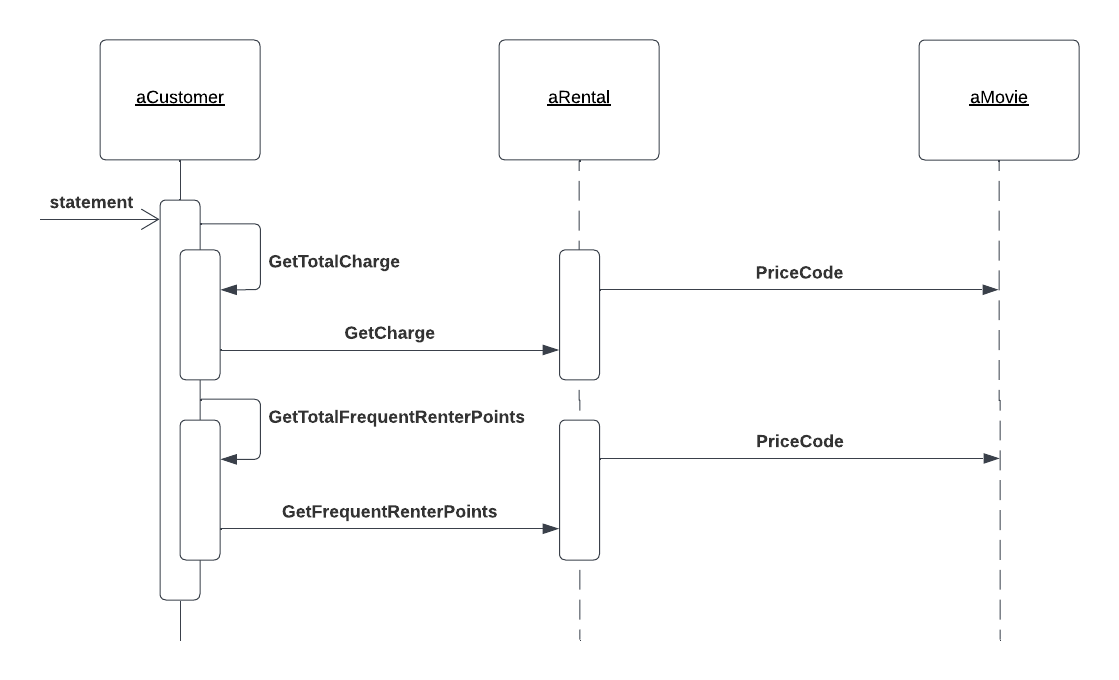
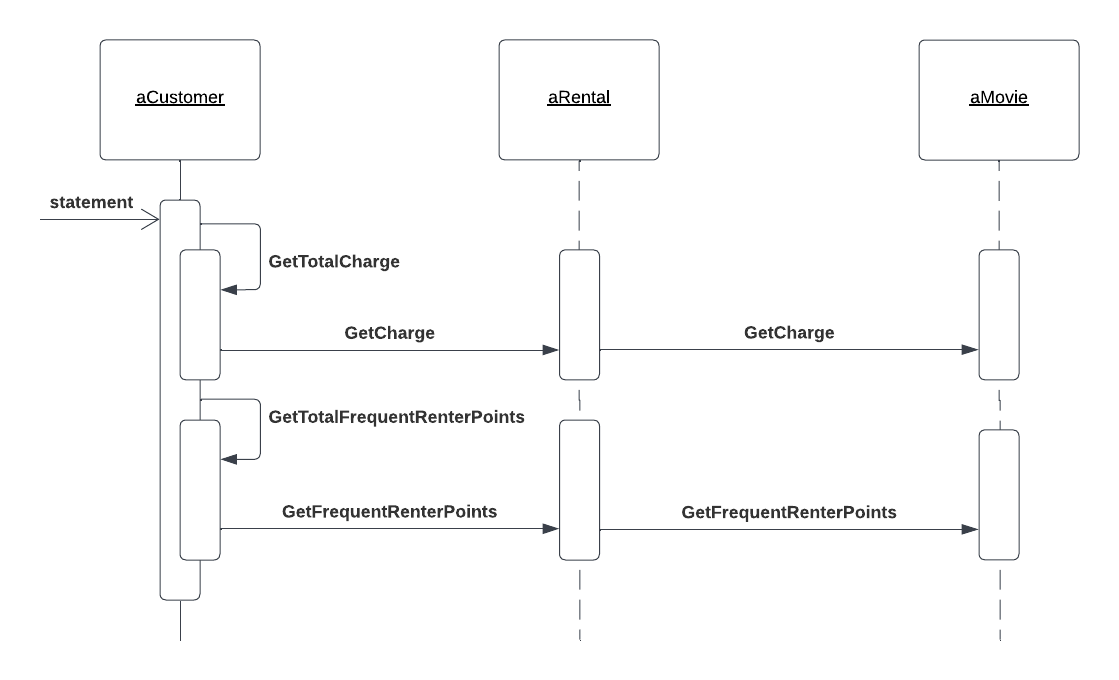
Move method

diff --git a/MoviesRental/Movie.cs b/MoviesRental/Movie.cs
@@ -1,18 +1,48 @@
-namespace MoviesRental
+namespace MoviesRental;
+
+public class Movie
 {
-    public class Movie
+    public const int Regular = 0;
+    public const int NewRelease = 1;
+    public const int Childrens = 2;
+
+    public string Title { get; }
+    public int PriceCode { get; set; }
+
+    public Movie(string title, int priceCode)
     {
-        public const int Regular = 0;
-        public const int NewRelease = 1;
-        public const int Childrens = 2;
+        Title = title;
+        PriceCode = priceCode;
+    }
 
-        public string Title { get; }
-        public int PriceCode { get; set; }
+    public double GetCharge(int daysRented)
+    {
+        double result = 0;
 
-        public Movie(string title, int priceCode)
+        switch (PriceCode)
         {
-            Title = title;
-            PriceCode = priceCode;
+            case Regular:
+                result += 2;
+                if (daysRented > 2)
+                    result += (daysRented - 2) * 1.5;
+                break;
+            case NewRelease:
+                result += daysRented * 3;
+                break;
+            case Childrens:
+                result += 1.5;
+                if (daysRented > 3)
+                    result += (daysRented - 3) * 1.5;
+                break;
         }
+
+        return result;
+    }
+    public int GetFrequentRenterPoints(int daysRented)
+    {
+        if (PriceCode == NewRelease && daysRented > 1)
+            return 2;
+
+        return 1;
     }
 }

diff --git a/MoviesRental/Rental.cs b/MoviesRental/Rental.cs
@@ -13,32 +13,10 @@ public class Rental
 
     public double GetCharge()
     {
-        double result = 0;
-
-        switch (Movie.PriceCode)
-        {
-            case Movie.Regular:
-                result += 2;
-                if (DaysRented > 2)
-                    result += (DaysRented - 2) * 1.5;
-                break;
-            case Movie.NewRelease:
-                result += DaysRented * 3;
-                break;
-            case Movie.Childrens:
-                result += 1.5;
-                if (DaysRented > 3)
-                    result += (DaysRented - 3) * 1.5;
-                break;
-        }
-
-        return result;
+        return Movie.GetCharge(DaysRented);
     }
     public int GetFrequentRenterPoints()
     {
-        if (Movie.PriceCode == Movie.NewRelease && DaysRented > 1)
-            return 2;
-
-        return 1;
+        return Movie.GetFrequentRenterPoints(DaysRented);
     }
 }
